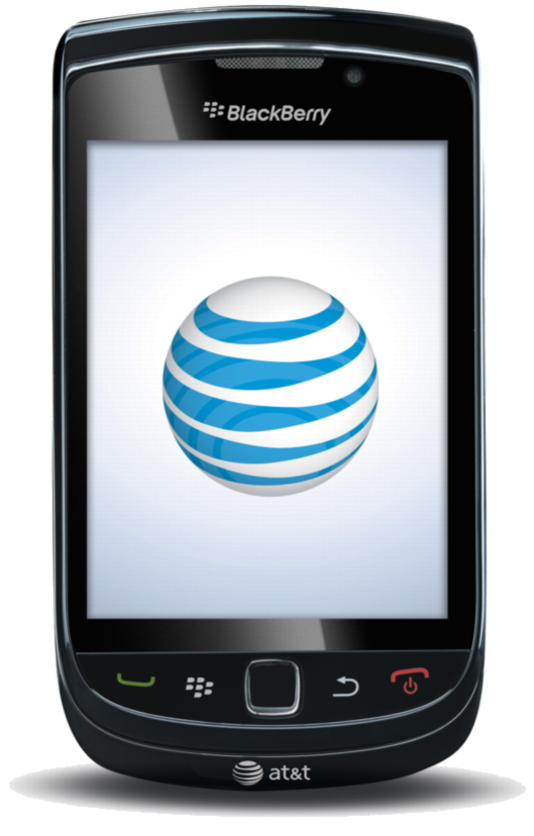
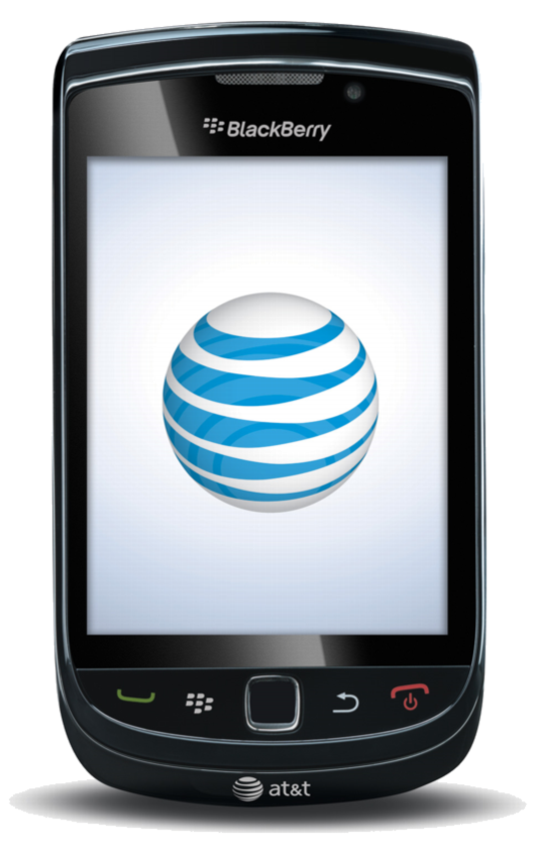
Updated emulators and jquery.mobile

diff --git a/templates/mobile/jquery.mobile.min.js b/templates/mobile/jquery.mobile.min.js
@@ -7,7 +7,7 @@
  *
  * http://docs.jquery.com/UI/Widget
  */
-(function(b,d){if(b.cleanData){var c=b.cleanData;b.cleanData=function(e){for(var f=0,g;(g=e[f])!=null;f++){b(g).triggerHandler("remove")}c(e)}}else{var a=b.fn.remove;b.fn.remove=function(e,f){return this.each(function(){if(!f){if(!e||b.filter(e,[this]).length){b("*",this).add([this]).each(function(){b(this).triggerHandler("remove")})}}return a.call(b(this),e,f)})}}b.widget=function(f,h,e){var g=f.split(".")[0],j;f=f.split(".")[1];j=g+"-"+f;if(!e){e=h;h=b.Widget}b.expr[":"][j]=function(k){return !!b.data(k,f)};b[g]=b[g]||{};b[g][f]=function(k,l){if(arguments.length){this._createWidget(k,l)}};var i=new h();i.options=b.extend(true,{},i.options);b[g][f].prototype=b.extend(true,i,{namespace:g,widgetName:f,widgetEventPrefix:b[g][f].prototype.widgetEventPrefix||f,widgetBaseClass:j},e);b.widget.bridge(f,b[g][f])};b.widget.bridge=function(f,e){b.fn[f]=function(i){var g=typeof i==="string",h=Array.prototype.slice.call(arguments,1),j=this;i=!g&&h.length?b.extend.apply(null,[true,i].concat(h)):i;if(g&&i.charAt(0)==="_"){return j}if(g){this.each(function(){var k=b.data(this,f);if(!k){throw"cannot call methods on "+f+" prior to initialization; attempted to call method '"+i+"'"}if(!b.isFunction(k[i])){throw"no such method '"+i+"' for "+f+" widget instance"}var l=k[i].apply(k,h);if(l!==k&&l!==d){j=l;return false}})}else{this.each(function(){var k=b.data(this,f);if(k){k.option(i||{})._init()}else{b.data(this,f,new e(i,this))}})}return j}};b.Widget=function(e,f){if(arguments.length){this._createWidget(e,f)}};b.Widget.prototype={widgetName:"widget",widgetEventPrefix:"",options:{disabled:false},_createWidget:function(f,g){b.data(g,this.widgetName,this);this.element=b(g);this.options=b.extend(true,{},this.options,this._getCreateOptions(),f);var e=this;this.element.bind("remove."+this.widgetName,function(){e.destroy()});this._create();this._trigger("create");this._init()},_getCreateOptions:function(){var e={};if(b.metadata){e=b.metadata.get(element)[this.widgetName]}return e},_create:function(){},_init:function(){},destroy:function(){this.element.unbind("."+this.widgetName).removeData(this.widgetName);this.widget().unbind("."+this.widgetName).removeAttr("aria-disabled").removeClass(this.widgetBaseClass+"-disabled ui-state-disabled")},widget:function(){return this.element},option:function(f,g){var e=f;if(arguments.length===0){return b.extend({},this.options)}if(typeof f==="string"){if(g===d){return this.options[f]}e={};e[f]=g}this._setOptions(e);return this},_setOptions:function(f){var e=this;b.each(f,function(g,h){e._setOption(g,h)});return this},_setOption:function(e,f){this.options[e]=f;if(e==="disabled"){this.widget()[f?"addClass":"removeClass"](this.widgetBaseClass+"-disabled ui-state-disabled").attr("aria-disabled",f)}return this},enable:function(){return this._setOption("disabled",false)},disable:function(){return this._setOption("disabled",true)},_trigger:function(f,g,h){var k=this.options[f];g=b.Event(g);g.type=(f===this.widgetEventPrefix?f:this.widgetEventPrefix+f).toLowerCase();h=h||{};if(g.originalEvent){for(var e=b.event.props.length,j;e;){j=b.event.props[--e];g[j]=g.originalEvent[j]}}this.element.trigger(g,h);return !(b.isFunction(k)&&k.call(this.element[0],g,h)===false||g.isDefaultPrevented())}}})(jQuery);(function(a){a.widget("mobile.widget",{_getCreateOptions:function(){var c=this.element,b={};a.each(this.options,function(d){var e=c.data(d.replace(/[A-Z]/g,function(f){return"-"+f.toLowerCase()}));if(e!==undefined){b[d]=e}});return b}})})(jQuery);(function(e){e.media=(function(){var j={},i=e("html"),k=e("<div id='jquery-mediatest'>"),l=e("<body>").append(k);return function(n){if(!(n in j)){var m=e("<style type='text/css'>@media "+n+"{#jquery-mediatest{position:absolute;}}</style>");i.prepend(l).prepend(m);j[n]=k.css("position")==="absolute";l.add(m).remove()}return j[n]}})();var f=e("<body>").prependTo("html"),b=f[0].style,h=["webkit","moz","o"],c=window.palmGetResource||window.PalmServiceBridge,g=window.blackberry;function d(l){var k=l.charAt(0).toUpperCase()+l.substr(1),j=(l+" "+h.join(k+" ")+k).split(" ");for(var i in j){if(b[i]!==undefined){return true}}}function a(){var l=location.protocol+"//"+location.host+location.pathname+"ui-dir/",k=e("<base>",{href:l}).appendTo("head"),j=e("<a href='testurl'></a>").prependTo(f),i=j[0].href;k.remove();return i.indexOf(l)===0}e.extend(e.support,{orientation:"orientation" in window,touch:"ontouchend" in document,WebKitAnimationEvent:typeof WebKitTransitionEvent==="object",pushState:!!history.pushState,mediaquery:e.media("only all"),cssPseudoElement:!!d("content"),boxShadow:!!d("boxShadow")&&!g,scrollTop:("pageXOffset" in window||"scrollTop" in document.documentElement||"scrollTop" in f[0])&&!c,dynamicBaseTag:a()});f.remove();if(!e.support.boxShadow){e("html").addClass("ui-mobile-nosupport-boxshadow")}})(jQuery);(function(e){e.each("touchstart touchmove touchend orientationchange tap taphold swipe swipeleft swiperight scrollstart scrollstop".split(" "),function(h,g){e.fn[g]=function(i){return i?this.bind(g,i):this.trigger(g)};e.attrFn[g]=true});var d=e.support.touch,c="touchmove scroll",a=d?"touchstart":"mousedown",f=d?"touchend":"mouseup",b=d?"touchmove":"mousemove";e.event.special.scrollstart={enabled:true,setup:function(){var g=this,j=e(g),i,k;function h(m,n){i=n;var l=m.type;m.type=i?"scrollstart":"scrollstop";e.event.handle.call(g,m);m.type=l}j.bind(c,function(l){if(!e.event.special.scrollstart.enabled){return}if(!i){h(l,true)}clearTimeout(k);k=setTimeout(function(){h(l,false)},50)})}};e.event.special.tap={setup:function(){var g=this,h=e(g);h.bind(a,function(l){if(l.which&&l.which!==1){return}var k=false,i=true,j,n;function m(){k=true}n=setTimeout(function(){if(i&&!k){j=l.type;l.type="taphold";e.event.handle.call(g,l);l.type=j}},750);h.one(b,m).one(f,function(o){h.unbind(b,m);clearTimeout(n);i=false;if(!k){j=o.type;o.type="tap";e.event.handle.call(g,o);o.type=j}})})}};e.event.special.swipe={setup:function(){var g=this,h=e(g);h.bind(a,function(j){var l=j.originalEvent.touches?j.originalEvent.touches[0]:j,m={time:(new Date).getTime(),coords:[l.pageX,l.pageY],origin:e(j.target)},i;function k(n){if(!m){return}var o=n.originalEvent.touches?n.originalEvent.touches[0]:n;i={time:(new Date).getTime(),coords:[o.pageX,o.pageY]};if(Math.abs(m.coords[0]-i.coords[0])>10){n.preventDefault()}}h.bind(b,k).one(f,function(n){h.unbind(b,k);if(m&&i){if(i.time-m.time<1000&&Math.abs(m.coords[0]-i.coords[0])>30&&Math.abs(m.coords[1]-i.coords[1])<75){m.origin.trigger("swipe").trigger(m.coords[0]>i.coords[0]?"swipeleft":"swiperight")}}m=i=undefined})})}};e.event.special.orientationchange={orientation:function(g){return document.body&&g.width()/g.height()<1.1?"portrait":"landscape"},setup:function(){var h=this,j=e(h),g=e.event.special.orientationchange.orientation(j);function i(){var k=e.event.special.orientationchange.orientation(j);if(g!==k){e.event.handle.call(h,"orientationchange",{orientation:k});g=k}}if(e.support.orientation){h.addEventListener("orientationchange",i,false)}else{j.bind("resize",i)}}};e.each({scrollstop:"scrollstart",taphold:"tap",swipeleft:"swipe",swiperight:"swipe"},function(h,g){e.event.special[h]={setup:function(){e(this).bind(g,e.noop)}}})})(jQuery);
+(function(b,d){if(b.cleanData){var c=b.cleanData;b.cleanData=function(e){for(var f=0,g;(g=e[f])!=null;f++){b(g).triggerHandler("remove")}c(e)}}else{var a=b.fn.remove;b.fn.remove=function(e,f){return this.each(function(){if(!f){if(!e||b.filter(e,[this]).length){b("*",this).add([this]).each(function(){b(this).triggerHandler("remove")})}}return a.call(b(this),e,f)})}}b.widget=function(f,h,e){var g=f.split(".")[0],j;f=f.split(".")[1];j=g+"-"+f;if(!e){e=h;h=b.Widget}b.expr[":"][j]=function(k){return !!b.data(k,f)};b[g]=b[g]||{};b[g][f]=function(k,l){if(arguments.length){this._createWidget(k,l)}};var i=new h();i.options=b.extend(true,{},i.options);b[g][f].prototype=b.extend(true,i,{namespace:g,widgetName:f,widgetEventPrefix:b[g][f].prototype.widgetEventPrefix||f,widgetBaseClass:j},e);b.widget.bridge(f,b[g][f])};b.widget.bridge=function(f,e){b.fn[f]=function(i){var g=typeof i==="string",h=Array.prototype.slice.call(arguments,1),j=this;i=!g&&h.length?b.extend.apply(null,[true,i].concat(h)):i;if(g&&i.charAt(0)==="_"){return j}if(g){this.each(function(){var k=b.data(this,f);if(!k){throw"cannot call methods on "+f+" prior to initialization; attempted to call method '"+i+"'"}if(!b.isFunction(k[i])){throw"no such method '"+i+"' for "+f+" widget instance"}var l=k[i].apply(k,h);if(l!==k&&l!==d){j=l;return false}})}else{this.each(function(){var k=b.data(this,f);if(k){k.option(i||{})._init()}else{b.data(this,f,new e(i,this))}})}return j}};b.Widget=function(e,f){if(arguments.length){this._createWidget(e,f)}};b.Widget.prototype={widgetName:"widget",widgetEventPrefix:"",options:{disabled:false},_createWidget:function(f,g){b.data(g,this.widgetName,this);this.element=b(g);this.options=b.extend(true,{},this.options,this._getCreateOptions(),f);var e=this;this.element.bind("remove."+this.widgetName,function(){e.destroy()});this._create();this._trigger("create");this._init()},_getCreateOptions:function(){var e={};if(b.metadata){e=b.metadata.get(element)[this.widgetName]}return e},_create:function(){},_init:function(){},destroy:function(){this.element.unbind("."+this.widgetName).removeData(this.widgetName);this.widget().unbind("."+this.widgetName).removeAttr("aria-disabled").removeClass(this.widgetBaseClass+"-disabled ui-state-disabled")},widget:function(){return this.element},option:function(f,g){var e=f;if(arguments.length===0){return b.extend({},this.options)}if(typeof f==="string"){if(g===d){return this.options[f]}e={};e[f]=g}this._setOptions(e);return this},_setOptions:function(f){var e=this;b.each(f,function(g,h){e._setOption(g,h)});return this},_setOption:function(e,f){this.options[e]=f;if(e==="disabled"){this.widget()[f?"addClass":"removeClass"](this.widgetBaseClass+"-disabled ui-state-disabled").attr("aria-disabled",f)}return this},enable:function(){return this._setOption("disabled",false)},disable:function(){return this._setOption("disabled",true)},_trigger:function(f,g,h){var k=this.options[f];g=b.Event(g);g.type=(f===this.widgetEventPrefix?f:this.widgetEventPrefix+f).toLowerCase();h=h||{};if(g.originalEvent){for(var e=b.event.props.length,j;e;){j=b.event.props[--e];g[j]=g.originalEvent[j]}}this.element.trigger(g,h);return !(b.isFunction(k)&&k.call(this.element[0],g,h)===false||g.isDefaultPrevented())}}})(jQuery);(function(a){a.widget("mobile.widget",{_getCreateOptions:function(){var c=this.element,b={};a.each(this.options,function(d){var e=c.data(d.replace(/[A-Z]/g,function(f){return"-"+f.toLowerCase()}));if(e!==undefined){b[d]=e}});return b}})})(jQuery);(function(e){e.media=(function(){var j={},i=e("html"),k=e("<div id='jquery-mediatest'>"),l=e("<body>").append(k);return function(n){if(!(n in j)){var m=e("<style type='text/css'>@media "+n+"{#jquery-mediatest{position:absolute;}}</style>");i.prepend(l).prepend(m);j[n]=k.css("position")==="absolute";l.add(m).remove()}return j[n]}})();var f=e("<body>").prependTo("html"),b=f[0].style,h=["webkit","moz","o"],c=window.palmGetResource||window.PalmServiceBridge,g=window.blackberry;function d(l){var k=l.charAt(0).toUpperCase()+l.substr(1),j=(l+" "+h.join(k+" ")+k).split(" ");for(var i in j){if(b[i]!==undefined){return true}}}function a(){var l=location.protocol+"//"+location.host+location.pathname+"ui-dir/",k=e("<base>",{href:l}).appendTo("head"),j=e("<a href='testurl'></a>").prependTo(f),i=j[0].href;k.remove();return i.indexOf(l)===0}e.extend(e.support,{orientation:"orientation" in window,touch:"ontouchend" in document,WebKitAnimationEvent:typeof WebKitTransitionEvent==="object",pushState:!!history.pushState,mediaquery:e.media("only all"),cssPseudoElement:!!d("content"),boxShadow:!!d("boxShadow")&&!g,scrollTop:("pageXOffset" in window||"scrollTop" in document.documentElement||"scrollTop" in f[0])&&!c,dynamicBaseTag:a()});f.remove();if(!e.support.boxShadow){e("html").addClass("ui-mobile-nosupport-boxshadow")}})(jQuery);(function(e){e.each("touchstart touchmove touchend orientationchange tap taphold swipe swipeleft swiperight scrollstart scrollstop".split(" "),function(h,g){e.fn[g]=function(i){return i?this.bind(g,i):this.trigger(g)};e.attrFn[g]=true});var d=e.support.touch,c="touchmove scroll",a=d?"touchstart":"mousedown",f=d?"touchend":"mouseup",b=d?"touchmove":"mousemove";e.event.special.scrollstart={enabled:true,setup:function(){var g=this,j=e(g),i,k;function h(m,n){i=n;var l=m.type;m.type=i?"scrollstart":"scrollstop";e.event.handle.call(g,m);m.type=l}j.bind(c,function(l){if(!e.event.special.scrollstart.enabled){return}if(!i){h(l,true)}clearTimeout(k);k=setTimeout(function(){h(l,false)},50)})}};e.event.special.tap={setup:function(){var g=this,h=e(g);h.bind(a,function(l){if(l.which&&l.which!==1){return}var k=false,i=true,j,n;function m(){k=true}n=setTimeout(function(){if(i&&!k){j=l.type;l.type="taphold";e.event.handle.call(g,l);l.type=j}},750);h.one(b,m).one(f,function(o){h.unbind(b,m);clearTimeout(n);i=false;if(!k){j=o.type;o.type="tap";e.event.handle.call(g,o);o.type=j}})})}};e.event.special.swipe={setup:function(){var g=this,h=e(g);h.bind(a,function(j){var l=j.originalEvent.touches?j.originalEvent.touches[0]:j,m={time:(new Date).getTime(),coords:[l.pageX,l.pageY],origin:e(j.target)},i;function k(n){if(!m){return}var o=n.originalEvent.touches?n.originalEvent.touches[0]:n;i={time:(new Date).getTime(),coords:[o.pageX,o.pageY]};if(Math.abs(m.coords[0]-i.coords[0])>10){n.preventDefault()}}h.bind(b,k).one(f,function(n){h.unbind(b,k);if(m&&i){if(i.time-m.time<1000&&Math.abs(m.coords[0]-i.coords[0])>30&&Math.abs(m.coords[1]-i.coords[1])<75){m.origin.trigger("swipe").trigger(m.coords[0]>i.coords[0]?"swipeleft":"swiperight")}}m=i=undefined})})}};e.event.special.orientationchange={orientation:function(g){return document.documentElement&&document.documentElement.clientWidth/document.documentElement.clientHeight<1.1?"portrait":"landscape"},setup:function(){var h=this,j=e(h),g=e.event.special.orientationchange.orientation(j);function i(){var k=e.event.special.orientationchange.orientation(j);if(g!==k){e.event.handle.call(h,"orientationchange",{orientation:k});g=k}}if(e.support.orientation){h.addEventListener("orientationchange",i,false)}else{j.bind("resize",i)}}};e.each({scrollstop:"scrollstart",taphold:"tap",swipeleft:"swipe",swiperight:"swipe"},function(h,g){e.event.special[h]={setup:function(){e(this).bind(g,e.noop)}}})})(jQuery);
 /*
  * jQuery hashchange event - v1.3 - 7/21/2010
  * http://benalman.com/projects/jquery-hashchange-plugin/
@@ -25,4 +25,4 @@
  * Dual licensed under the MIT or GPL Version 2 licenses.
  * http://jquery.org/license
  */
-(function(A,E,l){if(!jQuery.support.mediaquery){return}jQuery.mobile={};jQuery.extend(jQuery.mobile,{subPageUrlKey:"ui-page",degradeInputs:{color:true,date:true,datetime:true,"datetime-local":true,email:true,month:true,number:true,range:true,search:true,tel:true,time:true,url:true,week:true},addBackBtn:true});var K=jQuery(E),C=jQuery("html"),t=jQuery("head"),z,w=jQuery('<div class="ui-loader ui-body-a ui-corner-all"><span class="ui-icon ui-icon-loading spin"></span><h1>loading</h1></div>'),H,b,o="ui-page-start",a="ui-page-active",k="ui-btn-active",v=null,J,m,e="slide slideup slidedown pop flip fade",L=350,I="Back",s=[{url:location.hash.replace(/^#/,""),transition:"slide"}],u="[tabindex],a,button:visible,select:visible,input",i=null,M=true,f="[data-rel=dialog]",c=q(location.protocol+"//"+location.host+location.pathname),D=[320,480,768,1024];A.mobile.urlStack=s;function j(O){return O.replace(/[^a-zA-Z0-9]/g,"-")}A.mobile.idStringEscape=j;function h(){jQuery.event.special.scrollstart.enabled=false;setTimeout(function(){E.scrollTo(0,0)},0);setTimeout(function(){jQuery.event.special.scrollstart.enabled=true},150)}function q(P){var O=P.replace(/#/,"").split("/");O.pop();return O.join("/")+(O.length?"/":"")}function n(O){return q(O||location.hash)}var G=!A.support.dynamicBaseTag?A.noop:function(O){A("#ui-base").attr("href",c+n(O))};var p=!A.support.dynamicBaseTag?A.noop:function(){A("#ui-base").attr("href",c)};A("form").live("submit",function(){var P=A(this).attr("method"),O=A(this).attr("action").replace(location.protocol+"//"+location.host,"");if(/^(:?\w+:)/.test(O)){return}if(O.indexOf("/")&&O.indexOf("#")!==0){O=n()+O}A.changePage({url:O,type:P,data:A(this).serialize()},l,l,true);return false});jQuery("a").live("click",function(R){var T=A(this),P=T.attr("href").replace(location.protocol+"//"+location.host,""),U=/^(:?\w+:)/.test(P)||T.is("[target],[rel=external]");if(P==="#"){return false}v=T.closest(".ui-btn").addClass(k);if(U){location.href=P}else{var O=T.data("transition")||"slide",Q=T.data("back")||l,S=!T.is(f);i=T.attr("data-rel");if(P.indexOf("/")&&P.indexOf("#")!==0){P=n()+P}P.replace(/^#/,"");g(P,O,Q,S)}R.preventDefault()});function B(O){if(O){C.removeClass("ui-loading")}else{w.appendTo(b).css({top:A(E).scrollTop()+75});C.addClass("ui-loading")}}function N(P){var O=P.find(".ui-title:eq(0)");if(O.length){O.focus()}else{P.find(u).eq(0).focus()}}function d(O){if(i){O.attr("data-role",i);i=l}}function r(O){var P=["data-role","data-theme","data-fullscreen"],Q=O.wrap("<div>").parent();A.each(P,function(R){if(O.attr(P[R])){Q.attr(P[R],O.attr(P[R]));O.removeAttr(P[R])}});return Q}function y(O){if(!!v&&(!v.closest(".ui-page-active").length||O)){v.removeClass(k)}v=null}function g(ac,Z,U,aa){var Y=A.type(ac)==="array",ad=Y?ac[0]:A.activePage,ac=Y?ac[1]:ac,P=fileUrl=A.type(ac)==="string"?ac.replace(/^#/,""):null,T=l,ab="get",Q=false,O=null,U=(U!==l)?U:(s.length>1&&s[s.length-2].url===P),Z=(Z!==l)?Z:(J||"slide");if(A.type(ac)==="object"&&ac.url){P=ac.url,T=ac.data,ab=ac.type,Q=true;if(T&&ab=="get"){P+="?"+T;T=l}}J=l;m=l;p();if(U){Z=s.pop().transition}else{s.push({url:P,transition:Z})}function S(){jQuery(document.activeElement).blur();ad.data("page")._trigger("beforehide",{nextPage:ac});ac.data("page")._trigger("beforeshow",{prevPage:ad});function ae(){B(true);if(ad.data("page")._trigger("hide",null,{nextPage:ac})!==false&&ac.data("page")._trigger("show",null,{prevPage:ad})!==false){A.activePage=ac}N(ac);if(aa&&P){M=false;location.hash=P;setTimeout(function(){M=true},500)}y();if(O!=null){O.remove()}}if(Z){b.addClass("ui-mobile-viewport-transitioning");ad.addClass(Z+" out "+(U?"reverse":""));ac.addClass(a+" "+Z+" in "+(U?"reverse":""));ac.animationComplete(function(){ad.add(ac).removeClass(" out in reverse "+e);ad.removeClass(a);ae();b.removeClass("ui-mobile-viewport-transitioning")})}else{ad.removeClass(a);ac.addClass(a);ae()}}function X(){d(ac);ac.page()}function R(ae){return ae.match("&"+jQuery.mobile.subPageUrlKey)?ae.split("&"+jQuery.mobile.subPageUrlKey)[0]:ae}if(P){ac=jQuery("[id='"+P+"']"),fileUrl=R(P)}else{var V=ac.attr("id"),W=R(V);if(V!=W){fileUrl=W}}if(ac.length&&!Q){if(fileUrl){G(fileUrl)}X();S()}else{if(ac.length){O=ac}B();A.ajax({url:fileUrl,type:ab,data:T,success:function(ae){G(fileUrl);var af=jQuery("<div></div>");af.get(0).innerHTML=ae;ac=af.find('[data-role="page"]');if(!A.support.dynamicBaseTag){var ag=n(fileUrl);ac.find("[src],[href]").each(function(){var ai=A(this).is("[href]")?"href":"src",ah=A(this).attr(ai);ah.replace(location.protocol+"//"+location.host+location.pathname,"");if(!/^(\w+:|#|\/)/.test(ah)){A(this).attr(ai,ag+ah)}})}if(ac.attr("id")){ac=r(ac)}ac.attr("id",fileUrl).appendTo(b);X();S()},error:function(){B(true);y(true);jQuery("<div class='ui-loader ui-overlay-shadow ui-body-e ui-corner-all'><h1>Error Loading Page</h1></div>").css({display:"block",opacity:0.96,top:A(E).scrollTop()+100}).appendTo(b).delay(800).fadeOut(400,function(){A(this).remove()})}})}}jQuery(function(){z=jQuery("body");B();K.bind("hashchange",function(P,O){if(!M){return}var R=location.hash,Q=(O&&O.manuallyTriggered)?false:l;if(R){g(R,Q)}else{if(A.activePage.length&&!H.is(A.activePage)&&!(O&&O.manuallyTriggered)){g(H,Q,true)}else{A.activePage=H;H.trigger("pagebeforeshow",{prevPage:A("")});H.addClass(a);B(true);if(H.trigger("pageshow",{prevPage:A("")})!==false){N(H)}}}})});C.addClass("ui-mobile");K.bind("orientationchange",function(O,P){C.removeClass("portrait landscape").addClass(P.orientation)});function x(){var O=K.width(),S="min-width-",Q="max-width-",U=[],R=[],T="px",P;C.removeClass(S+D.join(T+" "+S)+T+" "+Q+D.join(T+" "+Q)+T);A.each(D,function(V){if(O>=D[V]){U.push(S+D[V]+T)}if(O<=D[V]){R.push(Q+D[V]+T)}});if(U.length){P=U.join(" ")}if(R.length){P+=" "+R.join(" ")}C.addClass(P)}K.bind("orientationchange resize",x);x();A.mobile.addResolutionBreakpoints=function(O){if(A.type(O)==="array"){D=D.concat(O)}else{D.push(O)}x()};var F=t.prepend('<meta name="viewport" content="width=device-width, minimum-scale=1, maximum-scale=1" />'+(A.support.dynamicBaseTag?'<base  href="" id="ui-base" />':""));p();jQuery.fn.animationComplete=function(O){if(jQuery.support.WebKitAnimationEvent){return jQuery(this).one("webkitAnimationEnd",O)}else{setTimeout(O,L)}};jQuery.extend({pageLoading:B,changePage:g,hideBrowserChrome:h});jQuery(function(){var O=jQuery("[data-role='page']");H=A.activePage=O.first();b=H.parent().addClass("ui-mobile-viewport");jQuery.extend({pageContainer:b});if(!H.attr("id")){H.attr("id",o)}O.page();K.trigger("hashchange",{manuallyTriggered:true});C.addClass(jQuery.event.special.orientationchange.orientation(K))});K.load(h).unload(y)})(jQuery,this);
+(function(A,E,l){if(!jQuery.support.mediaquery){return}jQuery.mobile={};jQuery.extend(jQuery.mobile,{subPageUrlKey:"ui-page",degradeInputs:{color:true,date:true,datetime:true,"datetime-local":true,email:true,month:true,number:true,range:true,search:true,tel:true,time:true,url:true,week:true},addBackBtn:true});var K=jQuery(E),C=jQuery("html"),t=jQuery("head"),z,w=jQuery('<div class="ui-loader ui-body-a ui-corner-all"><span class="ui-icon ui-icon-loading spin"></span><h1>loading</h1></div>'),H,b,o="ui-page-start",a="ui-page-active",k="ui-btn-active",v=null,J,m,e="slide slideup slidedown pop flip fade",L=350,I="Back",s=[{url:location.hash.replace(/^#/,""),transition:"slide"}],u="[tabindex],a,button:visible,select:visible,input",i=null,M=true,f="[data-rel=dialog]",c=q(location.protocol+"//"+location.host+location.pathname),D=[320,480,768,1024];A.mobile.urlStack=s;function j(O){return O.replace(/[^a-zA-Z0-9]/g,"-")}A.mobile.idStringEscape=j;function h(){jQuery.event.special.scrollstart.enabled=false;setTimeout(function(){E.scrollTo(0,0)},0);setTimeout(function(){jQuery.event.special.scrollstart.enabled=true},150)}function q(P){var O=P.replace(/#/,"").split("/");O.pop();return O.join("/")+(O.length?"/":"")}function n(O){return q(O||location.hash)}var G=!A.support.dynamicBaseTag?A.noop:function(O){A("#ui-base").attr("href",c+n(O))};var p=!A.support.dynamicBaseTag?A.noop:function(){A("#ui-base").attr("href",c)};A("form").live("submit",function(){var P=A(this).attr("method"),O=A(this).attr("action").replace(location.protocol+"//"+location.host,"");if(/^(:?\w+:)/.test(O)){return}if(O.indexOf("/")&&O.indexOf("#")!==0){O=n()+O}A.changePage({url:O,type:P,data:A(this).serialize()},l,l,true);return false});jQuery("a").live("click",function(R){var T=A(this),P=T.attr("href").replace(location.protocol+"//"+location.host,""),U=/^(:?\w+:)/.test(P)||T.is("[target],[rel=external]");if(P==="#"){return false}v=T.closest(".ui-btn").addClass(k);if(U){location.href=P}else{var O=T.data("transition")||"slide",Q=T.data("back")||l,S=!T.is(f);i=T.attr("data-rel");if(P.indexOf("/")&&P.indexOf("#")!==0){P=n()+P}P.replace(/^#/,"");g(P,O,Q,S)}R.preventDefault()});function B(O){if(O){C.removeClass("ui-loading")}else{w.appendTo(b).css({top:A(E).scrollTop()+75});C.addClass("ui-loading")}}function N(P){var O=P.find(".ui-title:eq(0)");if(O.length){O.focus()}else{P.find(u).eq(0).focus()}}function d(O){if(i){O.attr("data-role",i);i=l}}function r(O){var P=["data-role","data-theme","data-fullscreen"],Q=O.wrap("<div>").parent();A.each(P,function(R){if(O.attr(P[R])){Q.attr(P[R],O.attr(P[R]));O.removeAttr(P[R])}});return Q}function y(O){if(!!v&&(!v.closest(".ui-page-active").length||O)){v.removeClass(k)}v=null}function g(ac,Z,U,aa){var Y=A.type(ac)==="array",ad=Y?ac[0]:A.activePage,ac=Y?ac[1]:ac,P=fileUrl=A.type(ac)==="string"?ac.replace(/^#/,""):null,T=l,ab="get",Q=false,O=null,U=(U!==l)?U:(s.length>1&&s[s.length-2].url===P),Z=(Z!==l)?Z:(J||"slide");if(A.type(ac)==="object"&&ac.url){P=ac.url,T=ac.data,ab=ac.type,Q=true;if(T&&ab=="get"){P+="?"+T;T=l}}J=l;m=l;p();if(U){Z=s.pop().transition}else{s.push({url:P,transition:Z})}function S(){jQuery(document.activeElement).blur();ad.data("page")._trigger("beforehide",{nextPage:ac});ac.data("page")._trigger("beforeshow",{prevPage:ad});function ae(){B(true);if(ad.data("page")._trigger("hide",null,{nextPage:ac})!==false&&ac.data("page")._trigger("show",null,{prevPage:ad})!==false){A.activePage=ac}N(ac);if(aa&&P){M=false;location.hash=P}y();if(O!=null){O.remove()}}if(Z){b.addClass("ui-mobile-viewport-transitioning");ad.addClass(Z+" out "+(U?"reverse":""));ac.addClass(a+" "+Z+" in "+(U?"reverse":""));ac.animationComplete(function(){ad.add(ac).removeClass(" out in reverse "+e);ad.removeClass(a);ae();b.removeClass("ui-mobile-viewport-transitioning")})}else{ad.removeClass(a);ac.addClass(a);ae()}}function X(){d(ac);ac.page()}function R(ae){return ae.match("&"+jQuery.mobile.subPageUrlKey)?ae.split("&"+jQuery.mobile.subPageUrlKey)[0]:ae}if(P){ac=jQuery("[id='"+P+"']"),fileUrl=R(P)}else{var V=ac.attr("id"),W=R(V);if(V!=W){fileUrl=W}}if(ac.length&&!Q){if(fileUrl){G(fileUrl)}X();S()}else{if(ac.length){O=ac}B();A.ajax({url:fileUrl,type:ab,data:T,success:function(ae){G(fileUrl);var af=jQuery("<div></div>");af.get(0).innerHTML=ae;ac=af.find('[data-role="page"]');if(!A.support.dynamicBaseTag){var ag=n(fileUrl);ac.find("[src],[href]").each(function(){var ai=A(this).is("[href]")?"href":"src",ah=A(this).attr(ai);ah.replace(location.protocol+"//"+location.host+location.pathname,"");if(!/^(\w+:|#|\/)/.test(ah)){A(this).attr(ai,ag+ah)}})}if(ac.attr("id")){ac=r(ac)}ac.attr("id",fileUrl).appendTo(b);X();S()},error:function(){B(true);y(true);jQuery("<div class='ui-loader ui-overlay-shadow ui-body-e ui-corner-all'><h1>Error Loading Page</h1></div>").css({display:"block",opacity:0.96,top:A(E).scrollTop()+100}).appendTo(b).delay(800).fadeOut(400,function(){A(this).remove()})}})}}jQuery(function(){z=jQuery("body");B();K.bind("hashchange",function(P,O){if(!M){M=true;return}var R=location.hash,Q=O?false:l;if(R){g(R,Q)}else{if(A.activePage.length&&!H.is(A.activePage)&&!O){g(H,Q,true)}else{A.activePage=H;H.trigger("pagebeforeshow",{prevPage:A("")});H.addClass(a);B(true);if(H.trigger("pageshow",{prevPage:A("")})!==false){N(H)}}}})});C.addClass("ui-mobile");K.bind("orientationchange",function(O,P){C.removeClass("portrait landscape").addClass(P.orientation)});function x(){var O=K.width(),S="min-width-",Q="max-width-",U=[],R=[],T="px",P;C.removeClass(S+D.join(T+" "+S)+T+" "+Q+D.join(T+" "+Q)+T);A.each(D,function(V){if(O>=D[V]){U.push(S+D[V]+T)}if(O<=D[V]){R.push(Q+D[V]+T)}});if(U.length){P=U.join(" ")}if(R.length){P+=" "+R.join(" ")}C.addClass(P)}K.bind("orientationchange resize",x);x();A.mobile.addResolutionBreakpoints=function(O){if(A.type(O)==="array"){D=D.concat(O)}else{D.push(O)}x()};var F=t.prepend('<meta name="viewport" content="width=device-width, minimum-scale=1, maximum-scale=1" />'+(A.support.dynamicBaseTag?'<base  href="" id="ui-base" />':""));p();jQuery.fn.animationComplete=function(O){if(jQuery.support.WebKitAnimationEvent){return jQuery(this).one("webkitAnimationEnd",O)}else{setTimeout(O,L)}};jQuery.extend({pageLoading:B,changePage:g,hideBrowserChrome:h});jQuery(function(){var O=jQuery("[data-role='page']");H=A.activePage=O.first();b=H.parent().addClass("ui-mobile-viewport");jQuery.extend({pageContainer:b});if(!H.attr("id")){H.attr("id",o)}O.page();K.trigger("hashchange",[true]);C.addClass(jQuery.event.special.orientationchange.orientation(K))});K.load(h).unload(y)})(jQuery,this);

diff --git a/templates/mobile/jquery.mobile.js b/templates/mobile/jquery.mobile.js
@@ -510,7 +510,7 @@ $.event.special.swipe = {
 
 $.event.special.orientationchange = {
 	orientation: function( elem ) {
-		return document.body && elem.width() / elem.height() < 1.1 ? "portrait" : "landscape";
+		return document.documentElement && document.documentElement.clientWidth / document.documentElement.clientHeight < 1.1 ? "portrait" : "landscape";
 	},
 	
 	setup: function() {
@@ -2921,9 +2921,6 @@ $.fn.grid = function(options){
 				if( changeHash && url ){
 					hashListener = false;
 					location.hash = url;
-					setTimeout(function(){
-						hashListener = true;
-					}, 500);
 				}
 				removeActiveLinkClass();
 				
@@ -3059,10 +3056,13 @@ $.fn.grid = function(options){
 		
 		// needs to be bound at domready (for IE6)
 		// find or load content, make it active
-		$window.bind( "hashchange", function(e, extras) {
-			if( !hashListener ){ return; } 
+		$window.bind( "hashchange", function(e, triggered) {
+			if( !hashListener ){ 
+				hashListener = true;
+				return; 
+			} 
 			var to = location.hash,
-				transition = (extras && extras.manuallyTriggered) ? false : undefined;
+				transition = triggered ? false : undefined;
 				
 			// either we've backed up to the root page url
 			// or it's the first page load with no hash present
@@ -3073,7 +3073,7 @@ $.fn.grid = function(options){
 			}
 			//there's no hash, the active page is not the start page, and it's not manually triggered hashchange
 			// > probably backed out to the first page visited
-			else if( $.activePage.length && !$startPage.is( $.activePage ) && !(extras && extras.manuallyTriggered) ) {
+			else if( $.activePage.length && !$startPage.is( $.activePage ) && !triggered ) {
 				changePage( $startPage, transition, true );
 			}
 			else{
@@ -3191,7 +3191,7 @@ $.fn.grid = function(options){
 		$pages.page();
 		
 		//trigger a new hashchange, hash or not
-		$window.trigger( "hashchange", { manuallyTriggered: true } );
+		$window.trigger( "hashchange", [ true ] );
 		
 		//update orientation 
 		$html.addClass( jQuery.event.special.orientationchange.orientation( $window ) );

diff --git a/src/mobile/js/jquery.mobile.js b/src/mobile/js/jquery.mobile.js
@@ -284,9 +284,6 @@
 				if( changeHash && url ){
 					hashListener = false;
 					location.hash = url;
-					setTimeout(function(){
-						hashListener = true;
-					}, 500);
 				}
 				removeActiveLinkClass();
 				
@@ -422,10 +419,13 @@
 		
 		// needs to be bound at domready (for IE6)
 		// find or load content, make it active
-		$window.bind( "hashchange", function(e, extras) {
-			if( !hashListener ){ return; } 
+		$window.bind( "hashchange", function(e, triggered) {
+			if( !hashListener ){ 
+				hashListener = true;
+				return; 
+			} 
 			var to = location.hash,
-				transition = (extras && extras.manuallyTriggered) ? false : undefined;
+				transition = triggered ? false : undefined;
 				
 			// either we've backed up to the root page url
 			// or it's the first page load with no hash present
@@ -436,7 +436,7 @@
 			}
 			//there's no hash, the active page is not the start page, and it's not manually triggered hashchange
 			// > probably backed out to the first page visited
-			else if( $.activePage.length && !$startPage.is( $.activePage ) && !(extras && extras.manuallyTriggered) ) {
+			else if( $.activePage.length && !$startPage.is( $.activePage ) && !triggered ) {
 				changePage( $startPage, transition, true );
 			}
 			else{
@@ -554,7 +554,7 @@
 		$pages.page();
 		
 		//trigger a new hashchange, hash or not
-		$window.trigger( "hashchange", { manuallyTriggered: true } );
+		$window.trigger( "hashchange", [ true ] );
 		
 		//update orientation 
 		$html.addClass( jQuery.event.special.orientationchange.orientation( $window ) );

diff --git a/src/mobile/js/jquery.mobile.event.js b/src/mobile/js/jquery.mobile.event.js
@@ -156,7 +156,7 @@ $.event.special.swipe = {
 
 $.event.special.orientationchange = {
 	orientation: function( elem ) {
-		return document.body && elem.width() / elem.height() < 1.1 ? "portrait" : "landscape";
+		return document.documentElement && document.documentElement.clientWidth / document.documentElement.clientHeight < 1.1 ? "portrait" : "landscape";
 	},
 	
 	setup: function() {

diff --git a/templates/emulators/emulators/palm.portrait.scss b/templates/emulators/emulators/palm.portrait.scss
@@ -1,12 +1,13 @@
 // Generated by compass-jquery-plugin/gem-tasks/emulators.rake
 
 .palm .emulator {
+  margin-top: 56px;
   background: image_url("emulators/palm.pre.portrait.png") no-repeat;
   width: 416px;
-  height: 730px;
+  height: 740px;
   .display-area {
     position: relative;
-    top: 123px;
+    top: 126px;
     width: 320px;
     height: 460px;
     max-height: 460px;

diff --git a/src/emulators/css/palm.portrait.css b/src/emulators/css/palm.portrait.css
@@ -1,11 +1,12 @@
 .palm .emulator {
+  margin-top: 56px;
   background: image_url("emulators/palm.pre.portrait.png") no-repeat;
   width: 416px;
-  height: 730px;
+  height: 740px;
 }
 .palm .emulator .display-area {
   position: relative;
-  top: 123px;
+  top: 126px;
   width: 320px;
   height: 460px;
   max-height: 460px;

diff --git a/src/emulators/css/blackberry.portrait.css b/src/emulators/css/blackberry.portrait.css
@@ -1,11 +1,11 @@
 .blackberry .emulator {
   background: image_url("emulators/blackberry.torch.portrait.png") no-repeat;
   width: 534px;
-  height: 836px;
+  height: 852px;
 }
 .blackberry .emulator .display-area {
   position: relative;
-  top: 141px;
+  top: 157px;
   width: 360px;
   height: 480px;
   max-height: 480px;

diff --git a/templates/emulators/emulators/blackberry.portrait.scss b/templates/emulators/emulators/blackberry.portrait.scss
@@ -3,10 +3,10 @@
 .blackberry .emulator {
   background: image_url("emulators/blackberry.torch.portrait.png") no-repeat;
   width: 534px;
-  height: 836px;
+  height: 852px;
   .display-area {
     position: relative;
-    top: 141px;
+    top: 157px;
     width: 360px;
     height: 480px;
     max-height: 480px;

diff --git a/templates/emulators/emulators/iphone.portrait.scss b/templates/emulators/emulators/iphone.portrait.scss
@@ -1,9 +1,10 @@
 // Generated by compass-jquery-plugin/gem-tasks/emulators.rake
 
 .iphone .emulator {
+  margin-top: 56px;
   background: image_url("emulators/iphone.portrait.png") no-repeat;
   width: 390px;
-  height: 732px;
+  height: 740px;
   .display-area {
     position: relative;
     top: 138px;

diff --git a/templates/emulators/emulators/blackberry.landscape.scss b/templates/emulators/emulators/blackberry.landscape.scss
@@ -1,6 +1,7 @@
 // Generated by compass-jquery-plugin/gem-tasks/emulators.rake
 
 .blackberry .emulator {
+  margin-top: 160px;
   background: image_url("emulators/blackberry.torch.landscape.png") no-repeat;
   width: 840px;
   height: 460px;

diff --git a/src/emulators/css/iphone.portrait.css b/src/emulators/css/iphone.portrait.css
@@ -1,7 +1,8 @@
 .iphone .emulator {
+	margin-top: 56px;
   background: image_url("emulators/iphone.portrait.png") no-repeat;
   width: 390px;
-  height: 732px;
+  height: 740px;
 }
 .iphone .emulator .display-area {
   position: relative;

diff --git a/templates/emulators/emulators/iphone.landscape.scss b/templates/emulators/emulators/iphone.landscape.scss
@@ -1,6 +1,7 @@
 // Generated by compass-jquery-plugin/gem-tasks/emulators.rake
 
 .iphone .emulator {
+  margin-top: 160px;
   background: image_url("emulators/iphone.landscape.png") no-repeat;
   width: 740px;
   height: 420px;
